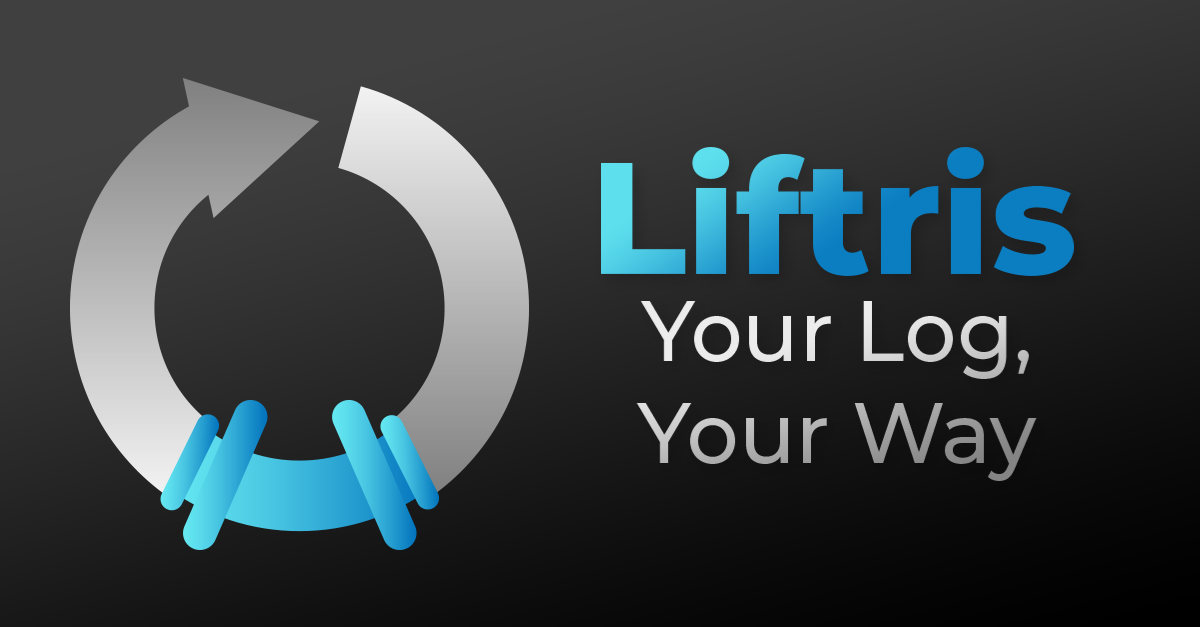
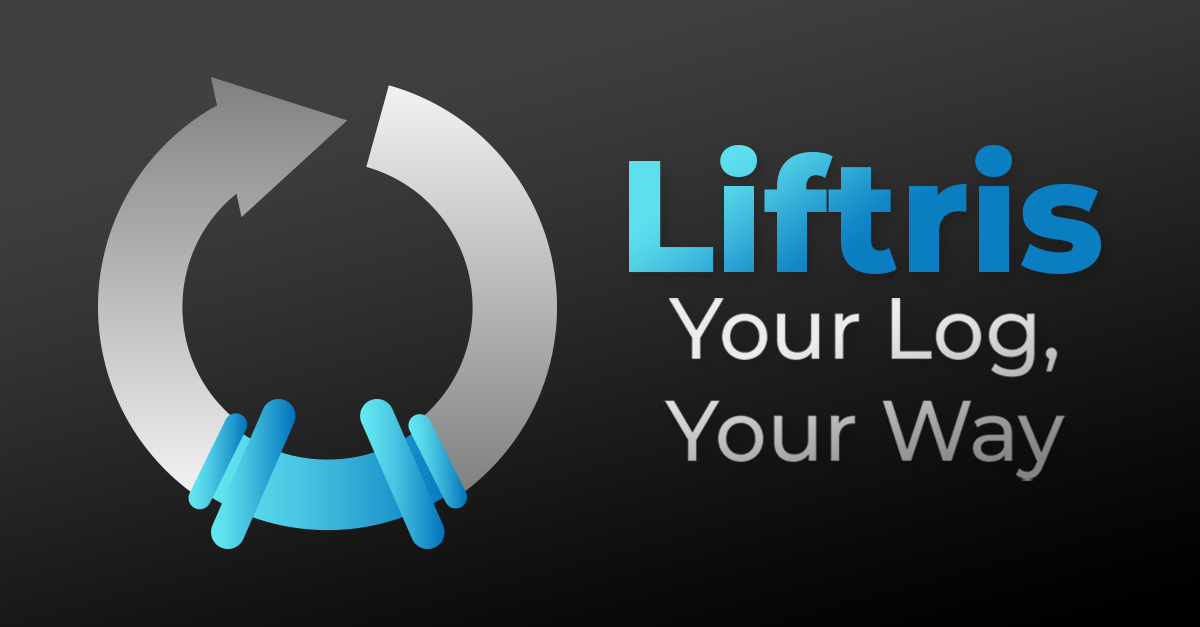
updated meta img and added 1.2.0's own page

Changed region(s): [[0.0308, 0.1212, 0.4625, 0.8788], [0.4933, 0.2121, 0.925, 0.6061], [0.5242, 0.6364, 0.8942, 0.7879]]

diff --git a/pages/changelog/1.2.0.jsx b/pages/changelog/1.2.0.jsx
@@ -1,0 +1,57 @@
+import Head from "next/head";
+
+import changelog from "../../public/changelog.json";
+
+import { CategoryMap } from "../../components/ChangelogMaps";
+import { useEffect } from "react";
+
+export default function Home() {
+  const updateNameStyle = "text-3xl font-semibold";
+  const ulstyle = "list-disc pl-10";
+
+  return (
+    <div className='h-full py-10 pb-5'>
+      <Head>
+        <title>Liftris - Changelog</title>
+      </Head>
+      <main className='flex flex-col justify-center h-full w-full'>
+        <div className='px-5'>
+          <div className='text-zinc-400'>
+            <h1 className='text-center text-6xl md:text-8xl font-bold pb-5 bg-clip-text bg-gradient-to-tl to-[#5ddeed] from-[#0e82c3] text-transparent'>
+              Update 1.2.0
+            </h1>
+            <h2 className='text-center text-5xl md:text-7xl font-bold pb-5 bg-clip-text bg-gradient-to-tl from-slate-500 to-slate-300 text-transparent'>
+              Release 2 - May 28
+            </h2>
+            <div>
+              <h3 className='text-center text-3xl md:text-5xl font-bold pb-5 bg-clip-text bg-gradient-to-tl from-sky-600 to-cyan-400 text-transparent'>
+                Changelog
+              </h3>
+              {changelog
+                .filter((e) => e.version === "1.2.0")
+                .map((e, i) => (
+                  <article key={`changelog_${e.version}`}>
+                    <span className={updateNameStyle}>
+                      {e.version} - {e.name} - {e.date}
+                    </span>
+                    <ul className={ulstyle}>
+                      {e.data.preface ? <li>{e.data.preface}</li> : null}
+                      {e.data.features ? (
+                        <CategoryMap name='Features' data={e.data.features} />
+                      ) : null}
+                      {e.data.bugfixes ? (
+                        <CategoryMap name='Bug Fixes' data={e.data.bugfixes} />
+                      ) : null}
+                      {e.data.misc ? (
+                        <CategoryMap name='Misc' data={e.data.misc} />
+                      ) : null}
+                    </ul>
+                  </article>
+                ))}
+            </div>
+          </div>
+        </div>
+      </main>
+    </div>
+  );
+}

diff --git a/pages/changelog/[update].jsx b/pages/changelog/[update].jsx
@@ -28,7 +28,7 @@ export default function Changelog() {
             </h1>
             <div>
               <h2 className='text-center text-3xl md:text-5xl font-bold pb-5 bg-clip-text bg-gradient-to-tl to-[#5ddeed] from-[#0e82c3] text-transparent'>
-                Changelog
+                {log.length ? "Changelog" : "Error - Invalid Release ID"}
               </h2>
               {log.map((e, i) => (
                 <article key={`changelog_${e.version}`}>

diff --git a/pages/changelog/index.jsx b/pages/changelog/index.jsx
@@ -3,6 +3,7 @@ import Head from "next/head";
 import changelog from "../../public/changelog.json";
 
 import { CategoryMap } from "../../components/ChangelogMaps";
+import { useEffect } from "react";
 
 export default function Home() {
   const updateNameStyle = "text-3xl font-semibold";
